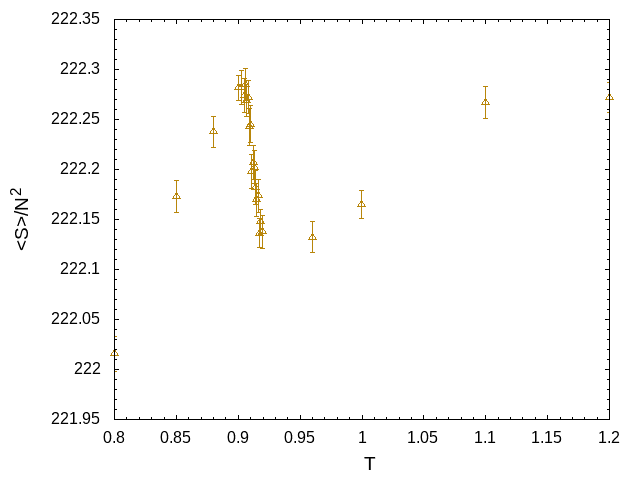
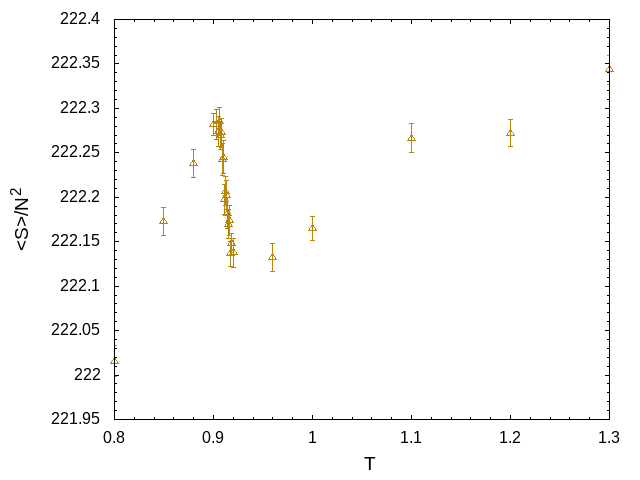
Updated ramp results

diff --git a/MatrixModels/BMN_Bosonic_Gauged/Nc32_24_mu1.0/t1.3/index.html b/MatrixModels/BMN_Bosonic_Gauged/Nc32_24_mu1.0/t1.3/index.html
@@ -1,0 +1,83 @@
+<html><head>
+<style>
+</style>
+<title>BMN_Bosonic_Gauged/Nc32_24_mu1.0/t1.3</title>
+</head>
+<body>
+<h1>BMN_Bosonic_Gauged/Nc32_24_mu1.0/t1.3</h1>
+  <div>
+    <table>
+      <tr><th>Action </th><th>Energy </th><th>Extent </th><th>SO(3) X SO(6) </th></tr>
+      <tr>
+        <td style="width:440px; height:300px;">
+        <img src="Results/action.png" width=400 height=300 />
+        </td>
+        <td style="width:440px; height:300px;">
+        <img src="Results/energy.png" width=400 height=300 />
+        </td>
+        <td style="width:440px; height:300px;">
+        <img src="Results/extent.png" width=400 height=300 />
+        </td>
+        <td style="width:440px; height:300px;">
+        <img src="Results/so.png" width=400 height=300 />
+        </td>
+      </tr>
+    </table>
+</div>
+  <div>
+    <table>
+      <tr><th>Gauge Force </th><th>Myers </th><th>Polyakov Loop </th><th>Polyakov Loop Scatter Plot </th></tr>
+      <tr>
+        <td style="width:440px; height:300px;">
+        <img src="Results/forces.png" width=400 height=300 />
+        </td>
+        <td style="width:440px; height:300px;">
+        <img src="Results/myers.png" width=400 height=300 />
+        </td>
+        <td style="width:440px; height:300px;">
+        <img src="Results/poly_mod.png" width=400 height=300 />
+        </td>
+        <td style="width:440px; height:300px;">
+        <img src="Results/poly.png" width=400 height=300 />
+        </td>
+      </tr>
+    </table>
+</div>
+ <div>
+    <table>
+      <tr><th>delta S </th><th>exp (- delta S) </th><th>|deta S| </th><th>Steps per Trajec </th></tr>
+      <tr>
+        <td style="width:440px; height:300px;">
+        <img src="Results/del.png" width=400 height=300 />
+        </td>
+        <td style="width:440px; height:300px;">
+        <img src="Results/exp_del.png" width=400 height=300 />
+        </td>
+        <td style="width:440px; height:300px;">
+        <img src="Results/mod_del.png" width=400 height=300 />
+        </td>
+        <td style="width:440px; height:300px;">
+        <img src="Results/nstep.png" width=400 height=300 />
+        </td>
+      </tr>
+    </table>
+</div>
+ <div>
+    <table>
+      <tr><th></th><th>Trajectory Length </th><th>HMC Acceptance Rate </th><th></th></tr>
+      <tr>
+      <td style="width:440px; height:300px;">
+      </td>
+        <td style="width:440px; height:300px;">
+        <img src="Results/traj.png" width=400 height=300 />
+        </td>
+        <td style="width:440px; height:300px;">
+        <img src="Results/rate.png" width=400 height=300 />
+        </td>
+        <td style="width:440px; height:300px;">
+      </td>
+      </tr>
+    </table>
+</div>
+</body>
+</html>

diff --git a/MatrixModels/BMN_Bosonic_Gauged/Nc32_24_mu2.0/t1.3/index.html b/MatrixModels/BMN_Bosonic_Gauged/Nc32_24_mu2.0/t1.3/index.html
@@ -1,0 +1,83 @@
+<html><head>
+<style>
+</style>
+<title>BMN_Bosonic_Gauged/Nc32_24_mu2.0/t1.3</title>
+</head>
+<body>
+<h1>BMN_Bosonic_Gauged/Nc32_24_mu2.0/t1.3</h1>
+  <div>
+    <table>
+      <tr><th>Action </th><th>Energy </th><th>Extent </th><th>SO(3) X SO(6) </th></tr>
+      <tr>
+        <td style="width:440px; height:300px;">
+        <img src="Results/action.png" width=400 height=300 />
+        </td>
+        <td style="width:440px; height:300px;">
+        <img src="Results/energy.png" width=400 height=300 />
+        </td>
+        <td style="width:440px; height:300px;">
+        <img src="Results/extent.png" width=400 height=300 />
+        </td>
+        <td style="width:440px; height:300px;">
+        <img src="Results/so.png" width=400 height=300 />
+        </td>
+      </tr>
+    </table>
+</div>
+  <div>
+    <table>
+      <tr><th>Gauge Force </th><th>Myers </th><th>Polyakov Loop </th><th>Polyakov Loop Scatter Plot </th></tr>
+      <tr>
+        <td style="width:440px; height:300px;">
+        <img src="Results/forces.png" width=400 height=300 />
+        </td>
+        <td style="width:440px; height:300px;">
+        <img src="Results/myers.png" width=400 height=300 />
+        </td>
+        <td style="width:440px; height:300px;">
+        <img src="Results/poly_mod.png" width=400 height=300 />
+        </td>
+        <td style="width:440px; height:300px;">
+        <img src="Results/poly.png" width=400 height=300 />
+        </td>
+      </tr>
+    </table>
+</div>
+ <div>
+    <table>
+      <tr><th>delta S </th><th>exp (- delta S) </th><th>|deta S| </th><th>Steps per Trajec </th></tr>
+      <tr>
+        <td style="width:440px; height:300px;">
+        <img src="Results/del.png" width=400 height=300 />
+        </td>
+        <td style="width:440px; height:300px;">
+        <img src="Results/exp_del.png" width=400 height=300 />
+        </td>
+        <td style="width:440px; height:300px;">
+        <img src="Results/mod_del.png" width=400 height=300 />
+        </td>
+        <td style="width:440px; height:300px;">
+        <img src="Results/nstep.png" width=400 height=300 />
+        </td>
+      </tr>
+    </table>
+</div>
+ <div>
+    <table>
+      <tr><th></th><th>Trajectory Length </th><th>HMC Acceptance Rate </th><th></th></tr>
+      <tr>
+      <td style="width:440px; height:300px;">
+      </td>
+        <td style="width:440px; height:300px;">
+        <img src="Results/traj.png" width=400 height=300 />
+        </td>
+        <td style="width:440px; height:300px;">
+        <img src="Results/rate.png" width=400 height=300 />
+        </td>
+        <td style="width:440px; height:300px;">
+      </td>
+      </tr>
+    </table>
+</div>
+</body>
+</html>

diff --git a/MatrixModels/BMN_Bosonic_Gauged/Nc32_24_mu1.0/index.html b/MatrixModels/BMN_Bosonic_Gauged/Nc32_24_mu1.0/index.html
@@ -36,6 +36,7 @@
     <th><br><a href="t1.0/index.html">t1.0</a></th>
     <th><br><a href="t1.1/index.html">t1.1</a></th>
     <th><br><a href="t1.2/index.html">t1.2</a></th>
+    <th><br><a href="t1.3/index.html">t1.3</a></th>
   </tr>
 </table>
 <br>

diff --git a/MatrixModels/BMN_Bosonic_Gauged/Nc32_24_mu2.0/index.html b/MatrixModels/BMN_Bosonic_Gauged/Nc32_24_mu2.0/index.html
@@ -46,6 +46,7 @@
   <tr>
     <th><br><a href="t1.1/index.html">t1.1</a></th>
     <th><br><a href="t1.2/index.html">t1.2</a></th>
+    <th><br><a href="t1.3/index.html">t1.3</a></th>
   </tr>
 </table>
 <br>
